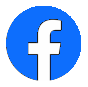
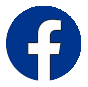
formularios modales

diff --git a/src/app/components/logo-ap/logo-ap.component.html b/src/app/components/logo-ap/logo-ap.component.html
@@ -10,8 +10,8 @@
             <a href="https://www.linkedin.com/in/carlospiacente"><img src="../../../assets/linkedin.png" class="social" id="linkedin"></a>
             <!--<a href=""><img src="../../../assets/wp.png" class="social" id="wp"></a>-->
             <a href="https://github.com/webcap68"><img src="../../../assets/github.png" class="social" id="github"></a>
-            <button type="button" class="btn btn-primary" (click)="login()" *ngIf="!isLogged">LOGIN</button>
-            <button type="button" class="btn btn-primary" (click)="onLogOut()" *ngIf="isLogged">LOGOUT</button>
+            <button type="button" class="btn btn-outline-light" (click)="login()" *ngIf="!isLogged">LOGIN</button>
+            <button type="button" class="btn btn-outline-light" (click)="onLogOut()" *ngIf="isLogged">LOGOUT</button>
         </div>
     </div>
 </div>

diff --git a/src/app/app.module.ts b/src/app/app.module.ts
@@ -31,6 +31,8 @@ import { EditbannerComponent } from './components/banner/editbanner.component';
 import { NewproyectoComponent } from './components/proyecto/newproyecto.component';
 import { EditproyectoComponent } from './components/proyecto/editproyecto.component';
 import { SobremiComponent } from './components/acerca-de/sobremi.component';
+import { ModalneweducacionComponent } from './components/modalneweducacion/modalneweducacion.component';
+
 
 
 @NgModule({
@@ -57,7 +59,8 @@ import { SobremiComponent } from './components/acerca-de/sobremi.component';
     EditbannerComponent,
     NewproyectoComponent,
     EditproyectoComponent,
-SobremiComponent    
+SobremiComponent,
+ModalneweducacionComponent
     ],
   imports: [
     BrowserModule,

diff --git a/src/app/components/educacion/educacion.component.html b/src/app/components/educacion/educacion.component.html
@@ -1,8 +1,10 @@
 <section class="gradient-custom">
 <div class="row">
+ 
   <div class="encabezado">
     <h2>Estudios Cursados</h2>
     <div class="col-sm-2 col-md-2 col-lg-2">
+
       <button
         type="button"
         class="btn btn-primary"
@@ -10,12 +12,16 @@
         *ngIf="isLogged"
       >
         <i class="bi bi-plus-lg"></i>
+
       </button>
+     
     </div>
   </div>
 
   <div class="col-sm-1 col-md-1 col-lg-1"></div>
   <div class="col-sm-11 col-md-11 col-lg-11">
+    <!-- <button>Abrir modal</button> -->
+    <app-modalneweducacion></app-modalneweducacion>
     <table class="table">
       <tbody>
        

diff --git a/src/app/app-routing.module.ts b/src/app/app-routing.module.ts
@@ -14,6 +14,7 @@ import { EditproyectoComponent } from './components/proyecto/editproyecto.compon
 import { NewproyectoComponent } from './components/proyecto/newproyecto.component';
 import { SobremiComponent } from './components/acerca-de/sobremi.component' ;
 
+
 const routes: Routes = [
   {path:'', component:HomeComponent},
   {path:'login', component: LoginComponent},
@@ -28,6 +29,7 @@ const routes: Routes = [
   {path: 'editpro/:id', component: EditproyectoComponent },
   {path: 'nuevopro', component: NewproyectoComponent},
   {path: 'editsobremi/:id', component: SobremiComponent}
+
 ];
 
 @NgModule({

diff --git a/src/app/components/logo-ap/logo-ap.component.css b/src/app/components/logo-ap/logo-ap.component.css
@@ -3,10 +3,10 @@
     /* background: #6a11cb; */
     
     /* Chrome 10-25, Safari 5.1-6 */
-     background: -webkit-linear-gradient(to right, rgb(170, 208, 247), rgb(77, 140, 248)); 
+     background: -webkit-linear-gradient(to right, #0d6efd,#0d6efd); 
     
     /* W3C, IE 10+/ Edge, Firefox 16+, Chrome 26+, Opera 12+, Safari 7+ */
-     background: linear-gradient(to right, rgb(170, 208, 247), rgb(77, 140, 248)) 
+     background: linear-gradient(to right,  #0d6efd,#0d6efd) 
      } 
 .row{
     width:101%;

diff --git a/src/app/components/modalneweducacion/modalneweducacion.component.ts b/src/app/components/modalneweducacion/modalneweducacion.component.ts
@@ -1,0 +1,16 @@
+import { Component, OnInit } from '@angular/core';
+
+
+@Component({
+  selector: 'app-modalneweducacion',
+  templateUrl: './modalneweducacion.component.html',
+  styleUrls: ['./modalneweducacion.component.css']
+})
+export class ModalneweducacionComponent implements OnInit {
+
+  constructor() { }
+
+  ngOnInit(): void {
+  }
+
+}

diff --git a/src/app/components/educacion/educacion.component.ts b/src/app/components/educacion/educacion.component.ts
@@ -2,6 +2,7 @@ import { Component, OnInit } from '@angular/core';
 import { Educacion } from 'src/app/model/educacion';
 import { EducacionService } from 'src/app/service/educacion.service';
 import { TokenService } from 'src/app/service/token.service';
+
 //import { JwtDto } from 'src/app/model/jwt-dto';
 
 @Component({

diff --git a/src/app/components/modalneweducacion/modalneweducacion.component.html b/src/app/components/modalneweducacion/modalneweducacion.component.html
@@ -1,0 +1,13 @@
+<div class="row">
+    <div class="encabezado">
+<div class="modal" >
+
+    <div class="modal_body">
+
+        <h3>Contenido modal</h3>
+        <button>X</button>
+
+    </div>
+</div>
+</div>
+</div>

diff --git a/src/app/components/footer/footer.component.html b/src/app/components/footer/footer.component.html
@@ -3,6 +3,8 @@
     <footer>
         <p>Carlos Adrian Piacente | © Argentina Programa 2023</p>
         <p>Buenos Aires, Argentina</p>
+        
+      
     </footer>
 </div>
 </section>

diff --git a/src/app/components/modalneweducacion/modalneweducacion.component.css b/src/app/components/modalneweducacion/modalneweducacion.component.css
@@ -1,0 +1,6 @@
+.modal{
+    background-color: blueviolet;
+}
+h3{
+    text-align: center;
+}
